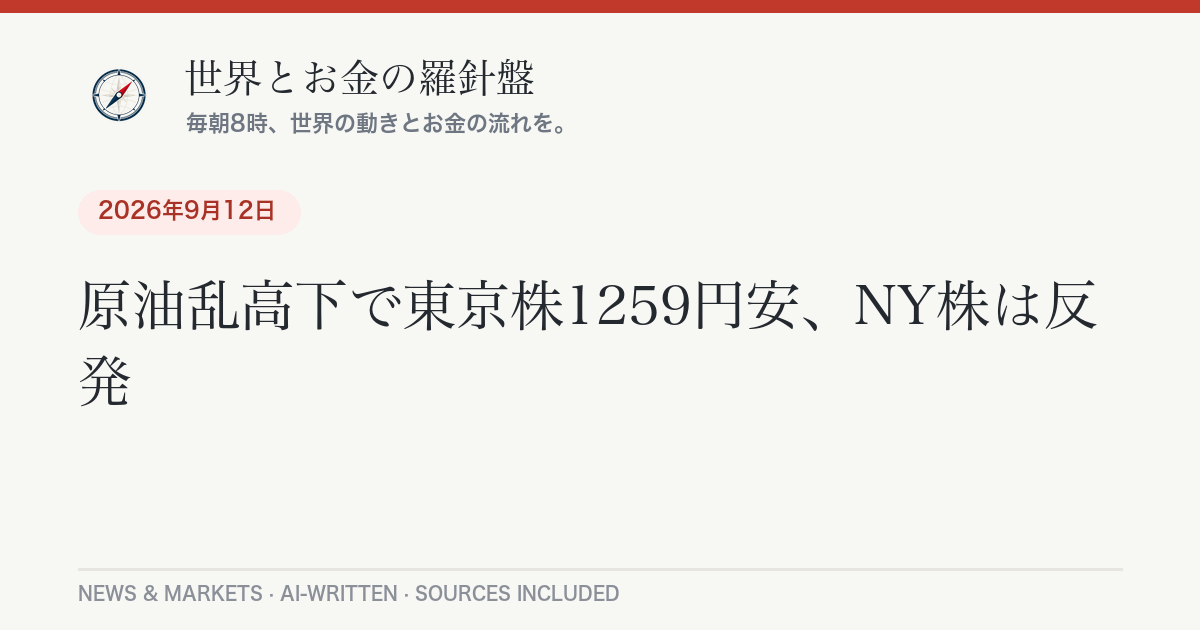
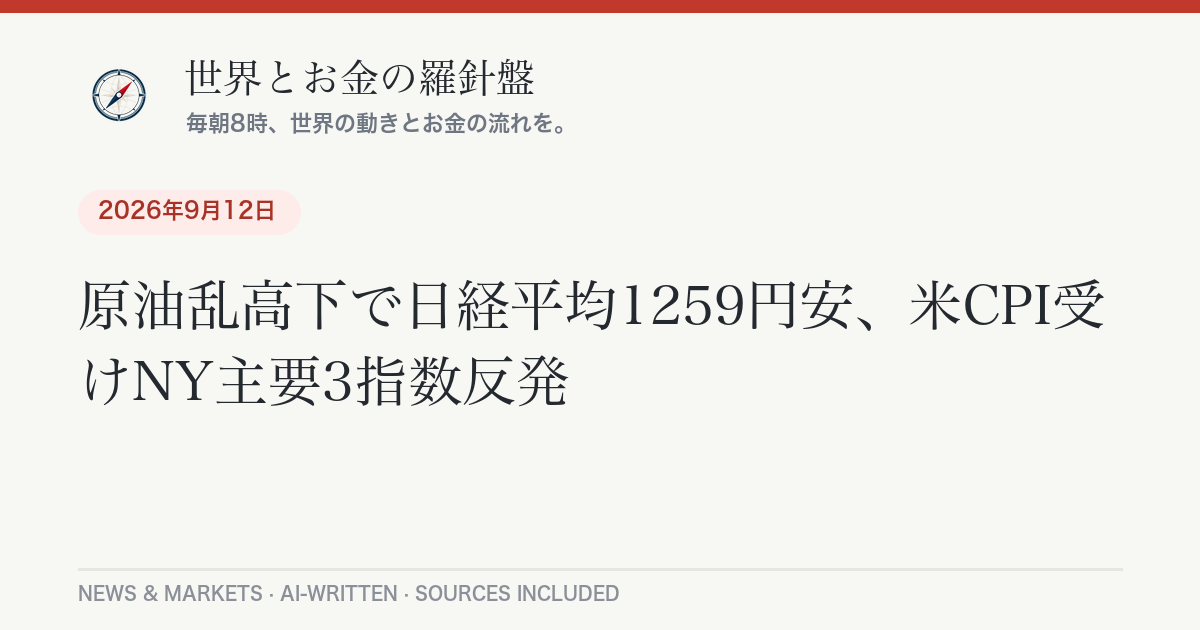
Daily briefing 2026-09-14

Changed region(s): [[0.0617, 0.4222, 0.925, 0.6635]]

diff --git a/_posts/2026-09-14-daily-briefing.md b/_posts/2026-09-14-daily-briefing.md
@@ -1,0 +1,94 @@
+---
+layout: post
+lang: ja
+title: "沖縄県知事選で古謝玄太氏が初当選、12年ぶり保守県政に｜9月14日のニュースとお金"
+date: 2026-09-14 07:39:26 +0900
+categories: [ニュース, 経済]
+headline: "沖縄県知事選で古謝玄太氏が初当選、12年ぶり保守県政に"
+permalink: /2026/09/14/daily-briefing/
+---
+
+## 今日のポイント
+
+国内では沖縄県知事選で保守系新人が現職を破り、12年ぶりに県政の流れが変わりました。世界では中東の緊張再燃で原油価格が押し上げられ、米国の物価指標にも影響が出ています。市場の目線は今週17〜18日に開かれる日銀の金融政策決定会合に集まっており、政策金利の追加引き上げが市場の大半に織り込まれています。
+
+## 今日の羅針盤（Compass Insight）
+
+きょうの流れを一言でいえば「政治の変化」と「物価の圧力」が同時に進んでいる状態です。沖縄では基地問題を巡る民意が変わり、米国では中東情勢の緊迫化がガソリン・エネルギー価格を通じて物価を押し上げています。日本では日銀が今週、政策金利を1.00%から1.25%へ引き上げる観測が市場の大勢を占めており、これは1995年以来約31年半ぶりの水準です。
+
+家計への影響という点では、原油高はガソリン代や電気代・輸入コストの上昇を通じてじわりと生活費に響きます。一方で日銀の利上げは、住宅ローン（特に変動金利）の返済額や、預金金利にも波及します。短期的には今週の日銀会合の結果と、それを受けた円相場の動き（現状は1ドル153〜154円台で不安定）に注目です。中長期では、中東情勢が収束に向かうかどうかが原油相場、ひいては世界的な物価動向を左右する構図が続くとみられます。投資判断は個々人の状況によるため、あくまで「何に注目すべきか」の整理としてご覧ください。
+
+## 今日のニュース
+
+**日本**
+- [沖縄県知事選挙で古謝玄太氏（42）が初当選確実](https://www.okinawatimes.co.jp/articles/-/1923086)。米軍普天間基地の名護市辺野古移設を容認する立場で、3期目を目指した現職の玉城デニー氏を破り、12年ぶりの保守県政となる見通し。
+- [沖縄県政史上最年少での知事就任](https://www.nikkei.com/article/DGXZQOJC011YC0R00C26A9000000/)となり、1972年の本土復帰後生まれで初の知事誕生。
+- 日銀は17〜18日の金融政策決定会合で、[政策金利を1.00%から1.25%へ引き上げる方向](https://www.nikkei.com/article/DGXZQOUB10B710Q6A910C2000000/)で最終調整との報道。
+
+**世界**
+- インドネシア・ジャワ海で乗客乗員243人を乗せたフェリーが荒天の中転覆し、[6人の死亡が確認され約130人が依然行方不明](https://www.npr.org/2026/09/13/g-s1-143114/about-130-missing-after-indonesian-passenger-ship-overturns)。107人が救助された。
+- 英国・フランス・カナダなど計12カ国が、[イスラエルのヨルダン川西岸入植地で生産された物品の輸入禁止](https://www.npr.org/2026/09/08/nx-s1-5961044/uk-occcupied-west-bank-goods-israel)を発表。イスラエルは対抗措置として英国領事館の閉鎖などを表明。
+- 米国とイランの間で[停戦が崩壊し、タンカーへの攻撃が応酬](https://edition.cnn.com/2026/09/04/middleeast/us-iran-strait-of-hormuz-stalemate-intl)される事態に。ホルムズ海峡付近の緊張が続いている。
+
+**アメリカ**
+- 8月の米消費者物価指数（CPI）は[前年比3.4%上昇、コア指数は2.4%上昇](https://www.cnbc.com/2026/09/11/cpi-inflation-report-august-2026.html)。ガソリン価格が前年比27.4%上昇するなど、エネルギー価格の高騰が全体を押し上げた。
+- 中東情勢の緊迫化を受け、[原油価格が一時1バレル100ドルを突破](https://www.cnbc.com/2026/09/11/cpi-inflation-report-august-2026.html)。ディーゼル価格は過去最高の1ガロン6ドルに達したとの報道。
+
+**ヨーロッパ**
+- 英国は西岸入植地産品の禁輸に加え、[入植地拡大を支援する企業・個人への追加制裁](https://www.npr.org/2026/09/08/nx-s1-5961044/uk-occcupied-west-bank-goods-israel)を実施する方針。
+- スペイン・バルセロナでは[カタルーニャの「ナショナルデー」に合わせた左派デモに警察が対応](https://www.aljazeera.com/europe/)する場面があった。
+
+## 経済とお金の動き
+
+**世界の経済と原油・相場**
+
+| 指標 | 値 | 前日比 |
+|---|---|---|
+| NYダウ平均（9/11終値） | [52,573.29ドル](https://www.cnbc.com/2026/09/10/stock-market-today-live-updates.html) | <span class="chg-up">+509.19ドル（+0.98%）</span> |
+| ナスダック総合（9/11終値） | 26,333.04 | <span class="chg-up">+251.32</span> |
+| WTI原油（10月限） | [100.29ドル/バレル](https://www.zaikei.co.jp/article/20260914/869840.html) | <span class="chg-down">-2.19ドル（-2.14%）</span> |
+| ドル円（9/14） | [153円台後半〜154円台](https://www.gaitame.com/media/entry/2026/09/14/070618) | 中東緊張緩和と米消費者信頼感の下振れで反落 |
+
+中東での軍事的緊張が再燃し、原油価格は一時1バレル100ドルを超える場面がありました。その後は緊張がやや和らいだとの見方から反落しています。エネルギー価格の高止まりは世界的なインフレ圧力として意識されやすい状況です。
+
+**アメリカの経済**
+
+8月のCPIはガソリン・光熱費の上昇を主因に前年比3.4%まで加速しました。この結果を受けて、[FOMC（米連邦公開市場委員会）が利上げに動くとの観測](https://www.cnbc.com/2026/09/11/cpi-inflation-report-august-2026.html)が強まり、市場ではその確率が9割近くまで織り込まれているとの報道があります。エネルギー高がインフレ・金融政策の両面で米国経済の焦点になっています。
+
+**日本の経済**
+
+日経平均は9月11日、[前日比1,259.61円安の64,011.34円](https://www.nikkei.com/article/DGXZQOUB110E4TR10C26A9000000/)で取引を終えました。AI関連への期待がある一方、米国のインフレ再加速への警戒が重荷になった形です。為替は円安基調が続いており、ドル円は153〜154円台で推移。今週の日銀会合での利上げ判断と、その後の円相場の反応が焦点です。
+
+## 今日の注目銘柄・セクター
+
+- **石油元売り・資源関連商社**：原油価格の上昇局面では、資源権益を持つ商社や石油元売り各社の業績への追い風として市場で意識されやすいテーマです。中東情勢の緊迫化が続く中、関連銘柄の値動きに注目が集まっています。
+- **海運株**：ホルムズ海峡周辺の緊張により、[運賃上昇や地政学リスクが海運会社の業績要因として意識](https://www.nikkei.com/article/DGKKZO89402350W5A610C2DTC000/)される局面が続いています。
+- **防衛関連株（米国）**：中東での軍事衝突の長期化を受け、ロッキード・マーチンなど米防衛大手株は年初来で大きく値上がりした経緯があり、情勢の変化のたびに市場の関心を集めています。
+- **沖縄関連銘柄（建設・観光）**：知事選で辺野古移設容認派が当選したことで、関連する公共工事や地域経済への影響を巡り、地元関連銘柄が話題になる可能性があります。
+
+*※特定銘柄の売買を推奨するものではありません。投資判断はご自身の責任で。*
+
+## まとめ：注目の3つ
+
+1. 沖縄県知事選で保守系の古謝玄太氏が初当選し、12年ぶりに県政の流れが転換。辺野古移設を巡る今後の展開に注目。
+2. 中東情勢の緊張再燃で原油価格が上昇し、米国の物価指標を押し上げている。エネルギー高と金融政策の綱引きが続く。
+3. 日銀は17〜18日の会合で政策金利を1.25%へ引き上げる観測が強く、円相場や住宅ローン金利への波及が焦点。
+
+---
+<div class="post-sources" markdown="1">
+
+**出典：**
+- [沖縄知事選、古謝玄太氏が初当選確実（沖縄タイムス）](https://www.okinawatimes.co.jp/articles/-/1923086)
+- [沖縄県知事選挙、古謝玄太氏が初当選（日本経済新聞）](https://www.nikkei.com/article/DGXZQOJC011YC0R00C26A9000000/)
+- [日銀、9月政策金利1.25%へ（日本経済新聞）](https://www.nikkei.com/article/DGXZQOUB10B710Q6A910C2000000/)
+- [Indonesian passenger ship overturns, ~130 missing（NPR）](https://www.npr.org/2026/09/13/g-s1-143114/about-130-missing-after-indonesian-passenger-ship-overturns)
+- [UK bans goods from Israeli settlements（NPR）](https://www.npr.org/2026/09/08/nx-s1-5961044/uk-occcupied-west-bank-goods-israel)
+- [US-Iran Strait of Hormuz stalemate（CNN）](https://edition.cnn.com/2026/09/04/middleeast/us-iran-strait-of-hormuz-stalemate-intl)
+- [CPI inflation report August 2026（CNBC）](https://www.cnbc.com/2026/09/11/cpi-inflation-report-august-2026.html)
+- [日経平均終値1259円安（日本経済新聞）](https://www.nikkei.com/article/DGXZQOUB110E4TR10C26A9000000/)
+- [今日のドル円（外為どっとコム）](https://www.gaitame.com/media/entry/2026/09/14/070618)
+- 市場データ: [frankfurter API](https://api.frankfurter.app/) ／ Yahoo Finance ほか
+
+*本記事は公開情報をもとに作成しています。*
+
+</div>

diff --git a/_posts/2026-09-14-daily-briefing-en.md b/_posts/2026-09-14-daily-briefing-en.md
@@ -1,0 +1,46 @@
+---
+layout: post
+lang: en
+title: "Okinawa elects new governor as Middle East tensions push oil higher — September 14, 2026"
+date: 2026-09-14 07:39:26 +0900
+headline: "Okinawa elects new governor as Middle East tensions push oil higher"
+permalink: /2026/09/14/daily-briefing/
+---
+
+## Top U.S. Stories
+
+- [Indonesian ferry capsizes in the Java Sea](https://www.npr.org/2026/09/13/g-s1-143114/about-130-missing-after-indonesian-passenger-ship-overturns), carrying 243 people; 6 confirmed dead and about 130 still missing, 107 rescued so far. *Why it matters:* one of the deadliest maritime disasters in the region this year, and a reminder of how vulnerable inter-island ferry travel remains in bad weather.
+- [U.S.-Iran ceasefire collapses](https://edition.cnn.com/2026/09/04/middleeast/us-iran-strait-of-hormuz-stalemate-intl) as both sides resume tanker attacks near the Strait of Hormuz. *Why it matters:* renewed hostilities are keeping a geopolitical risk premium in oil prices, feeding directly into U.S. inflation readings.
+- [August U.S. CPI accelerated to 3.4% year-over-year](https://www.cnbc.com/2026/09/11/cpi-inflation-report-august-2026.html), with core CPI at 2.4%; gasoline prices jumped 27.4% from a year earlier. *Why it matters:* energy-driven inflation is reinforcing expectations that the Federal Reserve will raise rates this week.
+- The [U.K., France and Canada announced bans on goods from Israeli settlements](https://www.npr.org/2026/09/08/nx-s1-5961044/uk-occcupied-west-bank-goods-israel) in the occupied West Bank; Israel responded by closing the British consulate.
+- Crude oil briefly [topped $100 a barrel](https://www.zaikei.co.jp/article/20260914/869840.html) this week before easing back on signs the Hormuz standoff was cooling.
+
+## Compass Insight
+
+Two threads are running through today's news: a political shift in Japan and renewed inflationary pressure in the U.S. Okinawa's election of a pro-base governor ends 12 years of a different political direction on the base-relocation issue, while the reignited U.S.-Iran standoff over the Strait of Hormuz has pushed oil prices and gasoline costs higher, showing up directly in August's CPI report. Markets are now watching two central-bank decisions this week: the Fed, facing hotter inflation data, and the Bank of Japan, which is widely expected to raise its policy rate from 1.00% to 1.25% — a level not seen since 1995. In the short term, watch how the yen (currently trading in the 153-154 range against the dollar) reacts to the BOJ decision. Over the medium term, whether Middle East tensions ease or escalate further will likely keep driving the direction of oil prices and, by extension, inflation trends in major economies. This is not investment advice — just a map of what to watch.
+
+## Markets
+
+- Dow Jones Industrial Average (Sept. 11 close): [52,573.29](https://www.cnbc.com/2026/09/10/stock-market-today-live-updates.html), up 509.19 points (+0.98%)
+- Nasdaq Composite (Sept. 11 close): 26,333.04, up 251.32 points
+- WTI crude (October contract): [$100.29/barrel](https://www.zaikei.co.jp/article/20260914/869840.html), down $2.19 (-2.14%)
+- USD/JPY: trading in the [153-154 range](https://www.gaitame.com/media/entry/2026/09/14/070618) on Sept. 14, easing back from an earlier spike after the U.S. CPI release
+
+## Stocks in Focus
+
+Energy-linked names — Japanese trading houses with oil and gas holdings, and refiners — are back in focus as crude prices stay elevated on Middle East risk. Shipping companies are also being watched given [freight-rate and route-risk implications](https://www.nikkei.com/article/DGKKZO89402350W5A610C2DTC000/) tied to the Strait of Hormuz standoff. In the U.S., defense contractors such as Lockheed Martin have been highlighted repeatedly this year as the Iran conflict has dragged on. This is informational only, not a recommendation to buy or sell any security.
+
+<div class="post-sources" markdown="1">
+
+**Sources:**
+- [Indonesian passenger ship overturns, ~130 missing (NPR)](https://www.npr.org/2026/09/13/g-s1-143114/about-130-missing-after-indonesian-passenger-ship-overturns)
+- [UK bans goods from Israeli settlements (NPR)](https://www.npr.org/2026/09/08/nx-s1-5961044/uk-occcupied-west-bank-goods-israel)
+- [US-Iran Strait of Hormuz stalemate (CNN)](https://edition.cnn.com/2026/09/04/middleeast/us-iran-strait-of-hormuz-stalemate-intl)
+- [CPI inflation report August 2026 (CNBC)](https://www.cnbc.com/2026/09/11/cpi-inflation-report-august-2026.html)
+- [Okinawa election result (Okinawa Times)](https://www.okinawatimes.co.jp/articles/-/1923086)
+- [BOJ rate hike outlook (Nikkei)](https://www.nikkei.com/article/DGXZQOUB10B710Q6A910C2000000/)
+- Market data: [frankfurter API](https://api.frankfurter.app/) / Yahoo Finance and others
+
+*Auto-generated and AI-written. Not investment advice.*
+
+</div>
